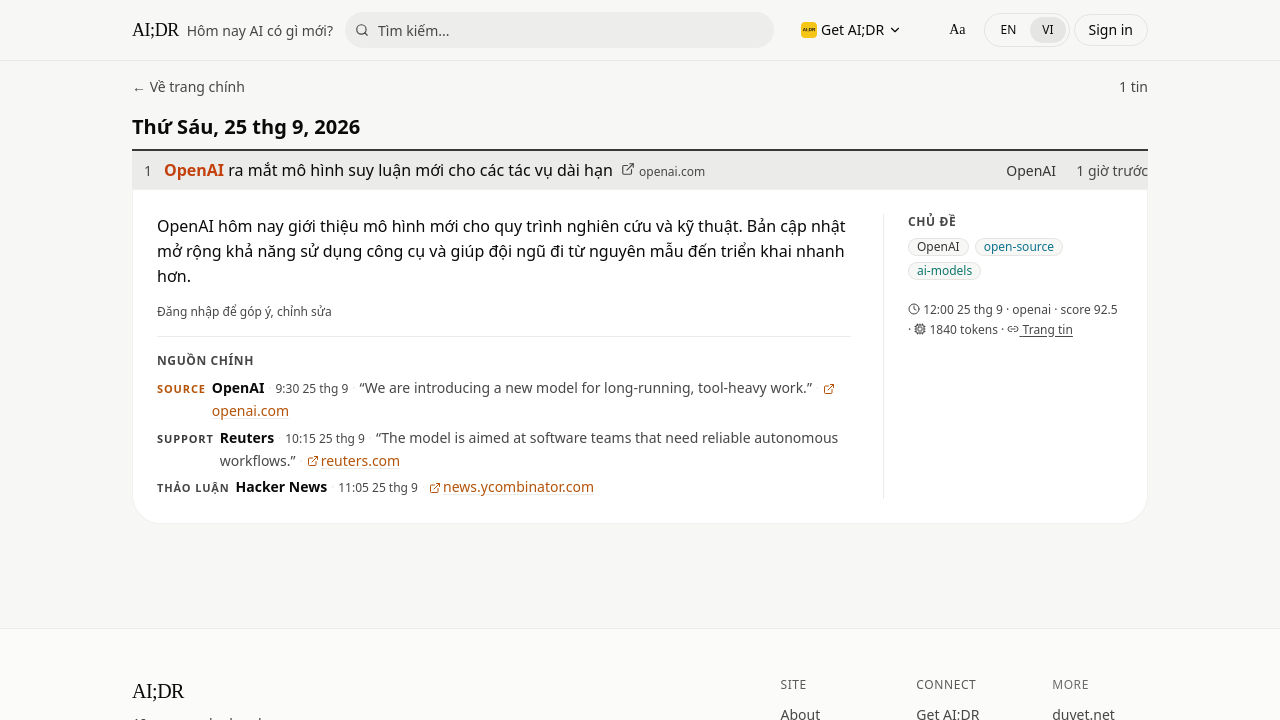
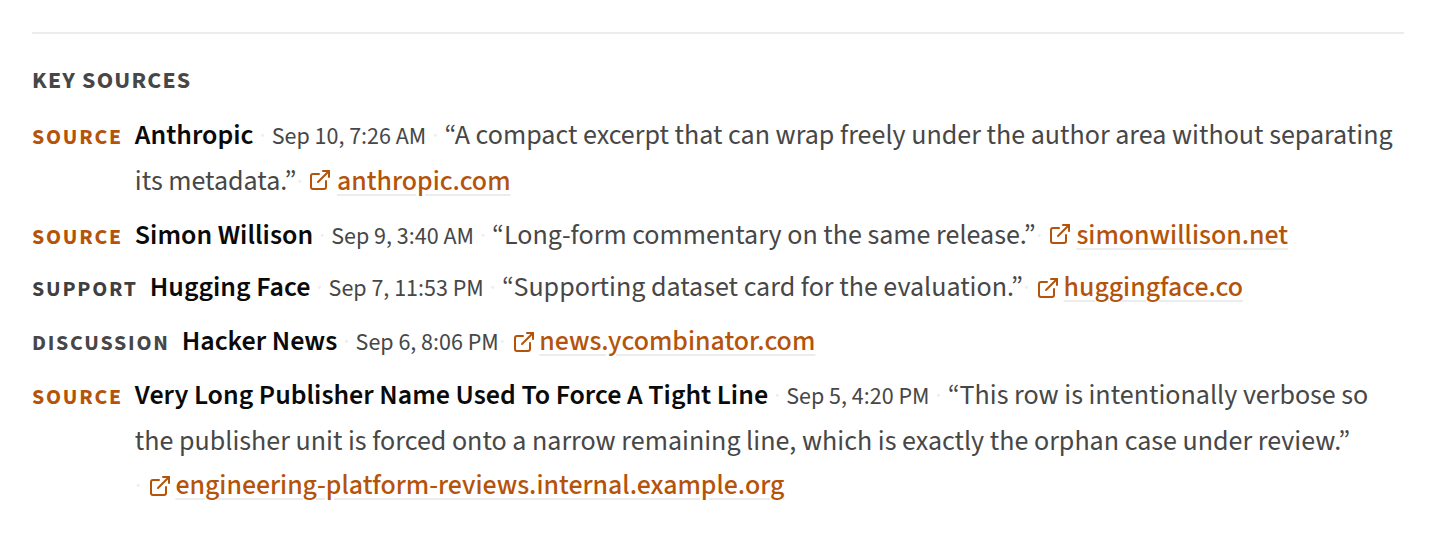
fix(web): keep story source metadata unit intact and skip empty rows
Follow-up to #176 (already merged as db0b838) fixing two blockers in the
compact inline story source list.

1. The `·` divider, the external-link icon and the publisher host were
   independent inline siblings, so the separator could end one line while
   the host started the next. Measured in headless Chromium this orphaned
   the unit in 31 row/width/language combinations (e.g. EN at 320px, the
   divider rendered at y=338.5 while the host text sat at y=361). They are
   now wrapped in a single non-breaking `data-source-meta-unit` span. The
   unit is an atomic `inline-block` capped with `max-w-full`, and the host
   text keeps `overflow-wrap: anywhere`, so a pathologically long host
   degrades by wrapping *inside* the unit instead of overflowing the row.

2. The API contract permits metadata-empty source rows such as
   `{ kind: "source" }`. Those rendered as a lone orphaned `SOURCE` label
   with no content beside it. Rows with no author, timestamp, quote or
   safe URL are now skipped, and when nothing renderable remains the
   section shows an intentional localized empty state
   ("No source details are available yet." / "Chưa có thông tin chi tiết
   về nguồn.") rather than an empty list.

Preserves the compact inline design, `section`/`h2`/`ol`/`li` semantics,
`time` elements, HTTP(S)-only link handling, `target="_blank"` with
`rel="noopener noreferrer"`, tracking, and localized accessible names.
[…]

diff --git a/apps/web/src/components/story/StorySources.test.tsx b/apps/web/src/components/story/StorySources.test.tsx
@@ -34,6 +34,19 @@ function renderSources(sources: ItemSource[], lang: "en" | "vi" = "vi") {
   );
 }
 
+/** The wire format permits metadata-empty rows (e.g. `{ kind: "source" }`),
+ * which the TypeScript type does not model, so build them explicitly. */
+const emptyRow = (kind = "source") => ({ kind }) as unknown as ItemSource;
+
+/** The divider is the `·` separator. The external-link icon is also
+ * aria-hidden, so match on the separator character rather than the attribute. */
+function dividerIn(root: HTMLElement | null): HTMLElement | null {
+  const candidates = Array.from(
+    root?.querySelectorAll<HTMLElement>("[aria-hidden='true']") ?? []
+  );
+  return candidates.find((el) => (el.textContent ?? "").includes("·")) ?? null;
+}
+
 describe("StorySources", () => {
   it("renders a semantic compact list with connected inline metadata", () => {
     renderSources([
@@ -126,5 +139,113 @@ describe("StorySources", () => {
   it("does not render an empty section", () => {
     const { container } = renderSources([]);
     expect(container.firstChild).toBeNull();
+  });
+
+  it("keeps the divider, external-link icon, and host in one non-breaking unit", () => {
+    const { container } = renderSources([source], "en");
+
+    // happy-dom performs no layout, so wrapping cannot be observed directly.
+    // Assert the DOM contract that produces it: the separator and the link
+    // share a single nowrap unit instead of being independent siblings.
+    const unit = container.querySelector<HTMLElement>(
+      "[data-source-meta-unit]"
+    );
+    expect(unit).toBeTruthy();
+    expect(unit?.className).toContain("whitespace-nowrap");
+    // Atomic unit capped at the row width, so a long host wraps inside the
+    // unit rather than overflowing the row.
+    expect(unit?.className).toContain("inline-block");
+    expect(unit?.className).toContain("max-w-full");
+
+    const link = screen.getByRole("link", {
+      name: "Open source: anthropic.com",
+    });
+    expect(unit?.contains(link)).toBe(true);
+    expect(unit?.querySelector("svg")).toBe(link.querySelector("svg"));
+    expect(dividerIn(unit)).toBeTruthy();
+    expect(unit?.textContent).toContain("·");
+    expect(unit?.textContent).toContain("anthropic.com");
+  });
+
+  it("keeps the unit bound to the row for an over-long publisher host", () => {
+    const host = `${"very-long-subdomain.".repeat(8)}example.com`;
+    const { container } = renderSources(
+      [{ ...source, url: `https://${host}/a-very-long-path-segment` }],
+      "en"
+    );
+
+    const unit = container.querySelector<HTMLElement>(
+      "[data-source-meta-unit]"
+    );
+    expect(unit?.className).toContain("max-w-full");
+    expect(unit?.textContent).toContain(host);
+    // The host is allowed to break internally, so no horizontal overflow.
+    expect(unit?.querySelector("a")?.className).toContain(
+      "overflow-wrap:anywhere"
+    );
+  });
+
+  it("renders a localized empty state instead of a lone role label", () => {
+    const { container } = renderSources([emptyRow("source")], "vi");
+    const section = screen.getByRole("region", { name: "Nguồn chính" });
+
+    expect(section.tagName).toBe("SECTION");
+    expect(container.textContent).toContain(
+      "Chưa có thông tin chi tiết về nguồn."
+    );
+    expect(screen.queryByText("SOURCE")).toBeNull();
+    // No empty list is announced.
+    expect(within(section).queryByRole("list")).toBeNull();
+    expect(container.querySelector("[data-source-meta-unit]")).toBeNull();
+  });
+
+  it("renders the English empty state for metadata-empty rows", () => {
+    renderSources([emptyRow("source")], "en");
+    const section = screen.getByRole("region", { name: "Key sources" });
+    expect(section.textContent).toContain(
+      "No source details are available yet."
+    );
+    expect(within(section).queryByRole("list")).toBeNull();
+  });
+
+  it("skips metadata-empty rows while keeping the list accessible", () => {
+    renderSources(
+      [emptyRow("discussion"), source, emptyRow("source"), emptyRow("support")],
+      "en"
+    );
+
+    const section = screen.getByRole("region", { name: "Key sources" });
+    const list = within(section).getByRole("list");
+    const rows = within(list).getAllByRole("listitem");
+
+    expect(list.tagName).toBe("OL");
+    expect(rows).toHaveLength(1);
+    expect(rows[0].textContent).toContain("Anthropic");
+    expect(screen.queryByText("DISCUSSION")).toBeNull();
+    expect(screen.queryByText("SUPPORT")).toBeNull();
+    expect(
+      screen.getByRole("link", { name: "Open source: anthropic.com" })
+    ).toBeTruthy();
+  });
+
+  it("treats an unsafe-URL-only row as metadata-empty", () => {
+    const { container } = renderSources(
+      [
+        {
+          kind: "support",
+          author: null,
+          posted_at: null,
+          quote: null,
+          url: "javascript:alert('nope')",
+        },
+      ],
+      "en"
+    );
+
+    expect(container.textContent).toContain(
+      "No source details are available yet."
+    );
+    expect(screen.queryByText("SUPPORT")).toBeNull();
+    expect(container.querySelector("a")).toBeNull();
   });
 });

diff --git a/apps/web/src/components/story/StorySources.tsx b/apps/web/src/components/story/StorySources.tsx
@@ -2,7 +2,7 @@ import { track } from "@aidr/ui/track";
 import { ExternalLink } from "lucide-react";
 import { useId } from "react";
 import { publisherHost } from "../../lib/publisher-host";
-import type { FeedItem, Lang } from "../../lib/types";
+import type { FeedItem, ItemSource, Lang } from "../../lib/types";
 import { fmtTime } from "./lib";
 
 function safeSourceUrl(value: string | null): string | null {
@@ -39,6 +39,17 @@ function InlineDivider() {
       {" · "}
     </span>
   );
+}
+
+/** A source row is only worth rendering when it carries at least one piece of
+ * metadata. The API contract allows metadata-empty rows (e.g. `{ kind:
+ * "source" }`); rendering those would leave a lone, meaningless `SOURCE`
+ * label with no content beside it. */
+function hasRowContent(source: ItemSource): boolean {
+  if (source.author) return true;
+  if (source.posted_at != null) return true;
+  if (source.quote) return true;
+  return safeSourceUrl(source.url) != null;
 }
 
 function SourceRow({
@@ -90,7 +101,14 @@ function SourceRow({
           </>
         )}
         {href && (
-          <>
+          /* One non-breaking unit: the divider, the external-link icon, and
+           * the publisher host can never orphan onto separate lines. The unit
+           * is an atomic inline-block capped at the row width, so an
+           * over-long host wraps *inside* the unit instead of overflowing. */
+          <span
+            data-source-meta-unit
+            className="inline-block max-w-full whitespace-nowrap align-baseline"
+          >
             {(source.author || source.posted_at || source.quote) && (
               <InlineDivider />
             )}
@@ -99,7 +117,7 @@ function SourceRow({
               target="_blank"
               rel="noopener noreferrer"
               onClick={() => track("story_open", { item_id: itemId })}
-              className="font-medium text-accent underline decoration-border underline-offset-2 hover:decoration-accent focus-visible:rounded-sm focus-visible:outline-2 focus-visible:outline-offset-2 focus-visible:outline-ring"
+              className="whitespace-normal [overflow-wrap:anywhere] font-medium text-accent underline decoration-border underline-offset-2 hover:decoration-accent focus-visible:rounded-sm focus-visible:outline-2 focus-visible:outline-offset-2 focus-visible:outline-ring"
               aria-label={`${linkLabel}: ${host ?? href}`}
             >
               <ExternalLink
@@ -108,7 +126,7 @@ function SourceRow({
               />
               {host ?? linkLabel}
             </a>
-          </>
+          </span>
         )}
       </span>
     </li>
@@ -127,6 +145,11 @@ export function StorySources({
   const headingId = useId();
   if (sources.length === 0) return null;
 
+  // Contract-valid rows may arrive with no metadata at all. Skipping them keeps
+  // every rendered <li> meaningful; when nothing renderable is left we show an
+  // intentional, localized empty state instead of an empty list.
+  const renderable = sources.filter(hasRowContent);
+
   return (
     <section
       aria-labelledby={headingId}
@@ -138,16 +161,24 @@ export function StorySources({
       >
         {lang === "vi" ? "Nguồn chính" : "Key sources"}
       </h2>
-      <ol className="mt-2 list-none space-y-1">
-        {sources.map((source, index) => (
-          <SourceRow
-            key={`${source.kind}-${source.url ?? source.author ?? "source"}-${index}`}
-            source={source}
-            lang={lang}
-            itemId={itemId}
-          />
-        ))}
-      </ol>
+      {renderable.length === 0 ? (
+        <p className="mt-2 text-sm text-muted-foreground">
+          {lang === "vi"
+            ? "Chưa có thông tin chi tiết về nguồn."
+            : "No source details are available yet."}
+        </p>
+      ) : (
+        <ol className="mt-2 list-none space-y-1">
+          {renderable.map((source, index) => (
+            <SourceRow
+              key={`${source.kind}-${source.url ?? source.author ?? "source"}-${index}`}
+              source={source}
+              lang={lang}
+              itemId={itemId}
+            />
+          ))}
+        </ol>
+      )}
     </section>
   );
 }
